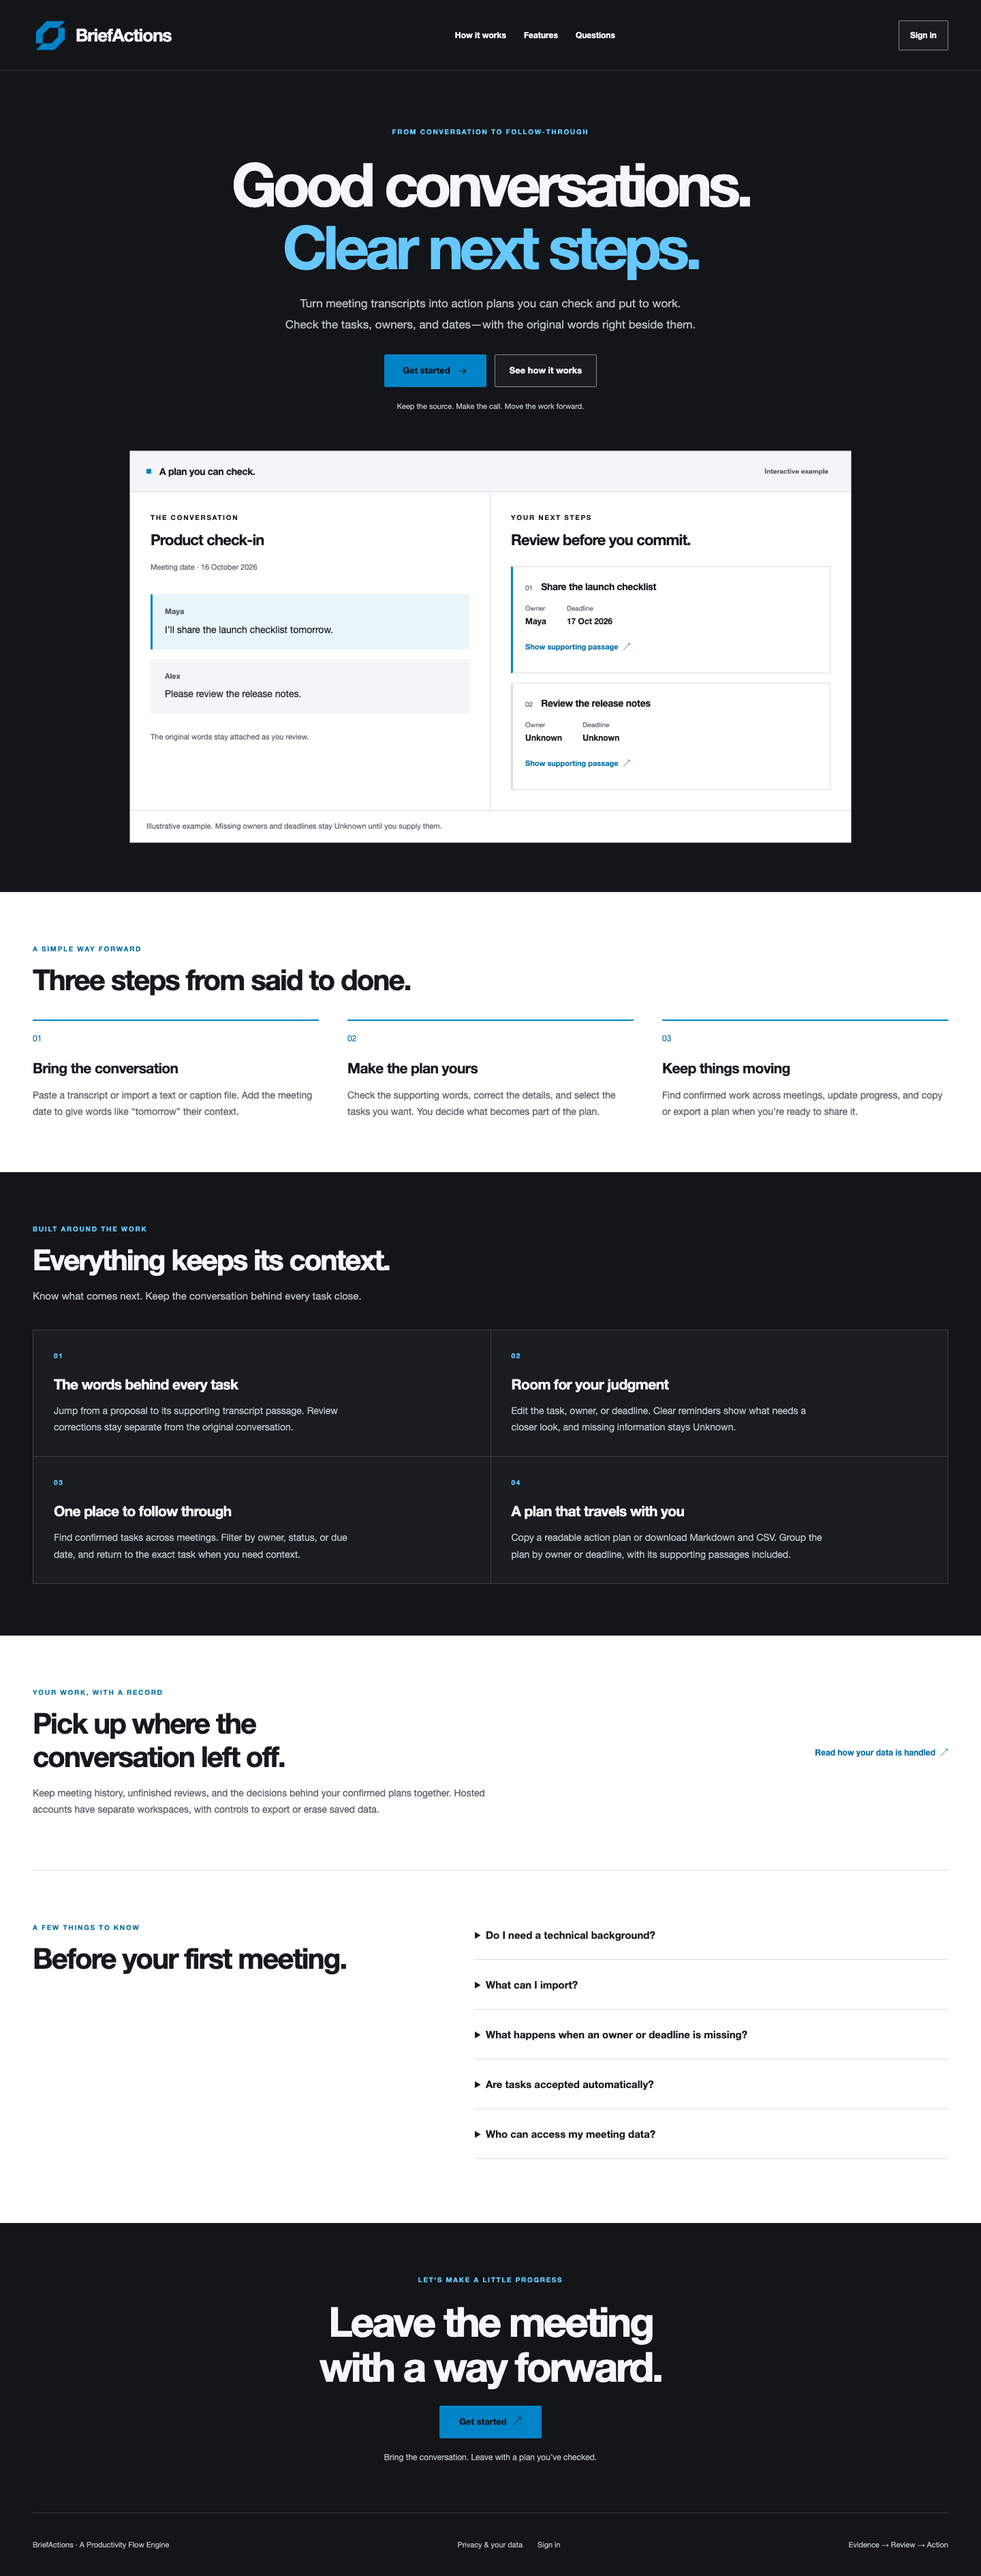
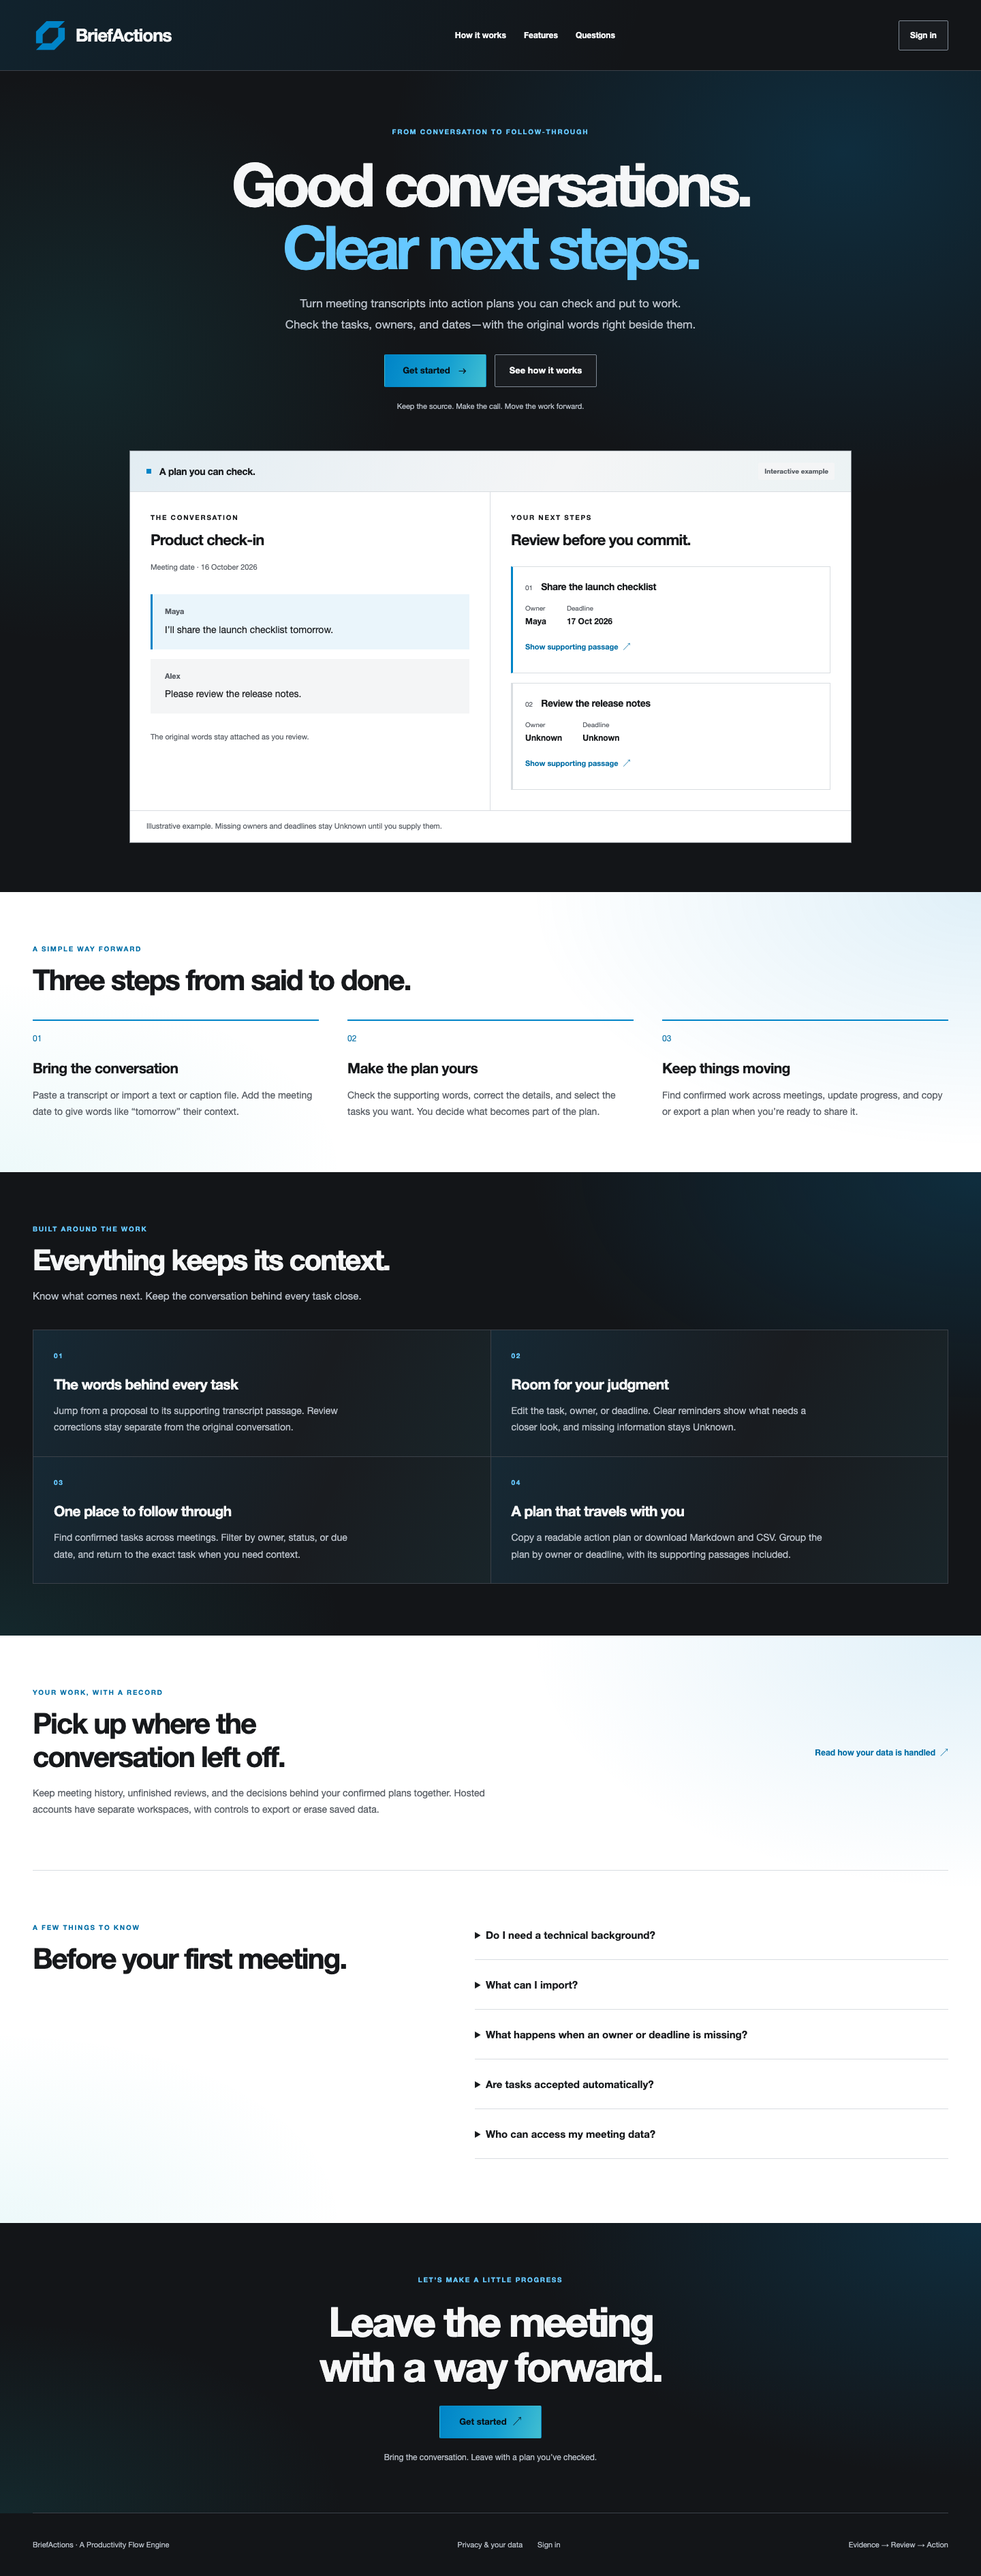
Add theme-aware blue and cyan gradients across BriefActions

diff --git a/web/src/styles.css b/web/src/styles.css
@@ -1,4 +1,4 @@
-/* Swiss / flat: neutral surfaces, precise rules, and one primary blue. */
+/* Precise grids, neutral reading surfaces, and blue-to-cyan gradient accents. */
 :root {
   font-family:Inter,'Helvetica Neue',Arial,sans-serif;
   font-synthesis:none; font-weight:400; line-height:1.5;
@@ -316,4 +316,42 @@ main.signin-shell{min-height:100vh;display:flex;flex-direction:column;background
 @media(max-width:1100px){.landing-header{flex-wrap:wrap;gap:12px 22px;padding-block:20px}.landing-header nav{order:3;width:100%;justify-content:center;border-top:1px solid var(--line);padding-top:8px}.landing-header-actions{margin-left:auto}.landing-data{display:block}.landing-data>.text-button{margin-top:20px}.landing-faq{gap:35px}}
 @media(max-width:700px){
  .landing-container{padding-inline:20px}.landing-header{gap:14px}.landing-header .brand-name{font-size:24px}.landing-header .brand-mark{width:40px;height:40px}.landing-header-actions{margin-left:auto}.landing-header nav{order:3;border:0;padding:0;gap:24px;justify-content:flex-start}.landing-header-actions{order:2}.landing-header nav a{min-height:36px;font-size:11px}.landing-header-actions .button{min-width:76px;padding-inline:12px}.landing-hero{padding:47px 0 35px}.landing-hero .eyebrow{font-size:9px;letter-spacing:1.2px}.landing-hero h1{font-size:clamp(37px,8.5vw,58px);letter-spacing:-.065em;margin:20px 0}.landing-lead{font-size:14px}.landing-hero-actions .button{min-width:0;flex:1;font-size:12px;padding-inline:12px}.landing-principles{font-size:10px}.landing-demo{margin-bottom:45px}.landing-demo-bar{padding:14px;flex-wrap:wrap;gap:8px}.landing-demo-bar h2{font-size:13px}.landing-demo-bar .badge{font-size:9px}.landing-demo-grid{grid-template-columns:minmax(0,1fr)}.landing-demo-source,.landing-demo-tasks{padding:23px 18px}.landing-demo-source{border-right:0;border-bottom:1px solid var(--line)}.landing-demo h3{font-size:21px}.demo-conversation{margin-top:20px}.demo-conversation p{font-size:13px;padding:12px}.demo-source-note{margin-top:17px}.demo-task dl{gap:25px}.demo-task{padding:15px}.landing-demo-caption{padding:13px 18px;font-size:10px}.landing-section{padding:40px 0}.landing-section-heading{margin-bottom:27px}.landing-section-heading h2,.landing-data h2{text-wrap:balance;font-size:31px}.landing-how ol{grid-template-columns:1fr;gap:27px}.landing-step-number{margin-bottom:14px;padding-top:12px}.landing-how h3,.landing-feature-grid h3{font-size:20px}.landing-feature-grid{grid-template-columns:1fr}.landing-feature-grid article{padding:25px 22px}.landing-feature-grid .eyebrow{margin-bottom:13px}.landing-faq{grid-template-columns:minmax(0,1fr);gap:0}.landing-faq details:last-child{margin-bottom:0}.landing-close{margin:0;padding:45px 0}.landing-close h2{font-size:38px}.landing-footer{align-items:flex-start;flex-direction:column;gap:4px;padding-bottom:25px}.landing-footer>span:last-child{margin-top:9px}main.signin-shell{padding:16px 20px}.signin-content{padding:38px 0}.signin-content>.brand .brand-mark{width:42px;height:42px}.signin-card{padding:27px 22px}.signin-card h1{font-size:30px}.signin-toolbar{gap:12px}.signin-toolbar .text-button{font-size:11px}.signin-caption{max-width:230px}
+}
+
+/* Shared atmosphere follows the workspace theme; public sections own their palette. */
+:root,.landing-light{
+ --glow-blue:rgb(0 132 199 / .12);--glow-cyan:rgb(27 177 191 / .08);
+ --wash-blue:rgb(0 132 199 / .07);--wash-cyan:rgb(27 177 191 / .04);
+ --surface-wash:linear-gradient(115deg,var(--wash-blue),transparent 60%,var(--wash-cyan));
+}
+:root[data-theme=dark],.landing-dark{
+ --glow-blue:rgb(0 132 199 / .22);--glow-cyan:rgb(27 177 191 / .12);
+ --wash-blue:rgb(0 132 199 / .12);--wash-cyan:rgb(27 177 191 / .06);
+ --surface-wash:linear-gradient(115deg,var(--wash-blue),transparent 60%,var(--wash-cyan));
+}
+.app-shell{
+ background-image:radial-gradient(ellipse 850px 420px at 100% 80px,var(--glow-blue),transparent 75%),radial-gradient(ellipse 600px 380px at 0 180px,var(--glow-cyan),transparent 75%);
+ background-repeat:no-repeat;background-size:100% 620px;
+}
+.workspace-header,.landing-header{background-image:linear-gradient(110deg,var(--wash-blue),transparent 65%)}
+.page-intro,.meeting-heading{position:relative}
+.page-intro::after,.meeting-heading::after{content:'';position:absolute;inset:auto 0 -10px;height:1px;background:linear-gradient(90deg,var(--primary),#36b6cb 35%,transparent 85%);pointer-events:none}
+.review-placeholder,.workflow-guide,.metric-card,.stat,.intro-note,.summary,.empty-state,.guide-example,.nav-item.active,.task-view[aria-pressed=true]{background-image:var(--surface-wash)}
+.button.primary{background-image:linear-gradient(110deg,#0084c7,#149fd1 58%,#42bfd2)}
+.button.primary:hover:not(:disabled){background-image:linear-gradient(110deg,#1093d0,#20acd7 58%,#60cbd9)}
+.landing-stage{
+ background-image:radial-gradient(ellipse 900px 680px at 86% 10%,var(--glow-blue),transparent 74%),radial-gradient(ellipse 650px 560px at 8% 35%,var(--glow-cyan),transparent 75%);
+}
+.landing-band{
+ background-image:radial-gradient(ellipse 850px 480px at 100% 0,var(--glow-blue),transparent 78%),radial-gradient(ellipse 650px 360px at 0 100%,var(--glow-cyan),transparent 78%);
+}
+.landing-feature-grid article,.landing-demo-bar{background-image:var(--surface-wash)}
+main.signin-shell{
+ background-image:radial-gradient(ellipse 900px 640px at 95% 0,var(--glow-blue),transparent 76%),radial-gradient(ellipse 850px 680px at 0 100%,var(--glow-cyan),transparent 76%);
+}
+.signin-card{position:relative}
+.signin-card::before{content:'';position:absolute;inset:-3px -1px auto;height:3px;background:linear-gradient(90deg,#0084c7,#42bfd2);pointer-events:none}
+@media(forced-colors:active){
+ .app-shell,.workspace-header,.landing-header,.landing-stage,.landing-band,main.signin-shell,.landing-feature-grid article,.landing-demo-bar,.review-placeholder,.workflow-guide,.metric-card,.stat,.intro-note,.summary,.empty-state,.guide-example,.nav-item.active,.task-view[aria-pressed=true],.button.primary,.button.primary:hover:not(:disabled){background-image:none}
+ .page-intro::after,.meeting-heading::after,.signin-card::before{display:none}
 }

diff --git a/web/src/LandingPage.jsx b/web/src/LandingPage.jsx
@@ -11,7 +11,7 @@ export default function LandingPage({signedIn=false}){
  const href=signedIn?'/meetings':'/sign-in',action=signedIn?'Open workspace':'Get started';
  return <div className="landing-shell landing-light"><a className="skip-link" href="#home-title">Skip to content</a>
   <div className="landing-intro landing-dark"><header className="landing-header landing-container"><ProductBrand/><nav aria-label="Website navigation"><a href="#how">How it works</a><a href="#features">Features</a><a href="#questions">Questions</a></nav><div className="landing-header-actions"><a className="button secondary" href={href}>{signedIn?'Open workspace':'Sign in'}</a></div></header></div>
-  <main id="home-main"><div className="landing-intro landing-dark"><div className="landing-container">
+  <main id="home-main"><div className="landing-intro landing-dark landing-stage"><div className="landing-container">
    <section className="landing-hero" aria-labelledby="home-title"><p className="eyebrow accent">FROM CONVERSATION TO FOLLOW-THROUGH</p><h1 id="home-title" tabIndex={-1}>Good conversations.<br/><span>Clear next steps.</span></h1><p className="landing-lead">Turn meeting transcripts into action plans you can check and put to work. Check the tasks, owners, and dates—with the original words right beside them.</p><div className="landing-hero-actions"><a className="button primary" href={href}>{action}<svg width="17" height="17" viewBox="0 0 24 24" fill="none" stroke="currentColor" strokeWidth="1.7" aria-hidden="true"><path d="M5 12h14m-5-5 5 5-5 5"/></svg></a><a className="button secondary" href="#how">See how it works</a></div><p className="landing-principles">Keep the source. Make the call. Move the work forward.</p></section>
    <section className="landing-demo landing-light" aria-labelledby="demo-title"><div className="landing-demo-bar"><div><span className="demo-dot" aria-hidden="true"/><h2 id="demo-title">A plan you can check.</h2></div><span className="badge neutral">Interactive example</span></div><div className="landing-demo-grid"><div className="landing-demo-source"><div className="eyebrow">THE CONVERSATION</div><h3>Product check-in</h3><p className="form-hint">Meeting date · 16 October 2026</p><div className="demo-conversation">{examples.map(item=><p key={item.id} className={active===item.id?'demo-source-active':''}><strong>{item.speaker}</strong><span>{item.quote}</span></p>)}</div><p className="demo-source-note">The original words stay attached as you review.</p></div><div className="landing-demo-tasks"><div className="eyebrow">YOUR NEXT STEPS</div><h3>Review before you commit.</h3><div className="demo-task-list">{examples.map((item,index)=><article className={`demo-task ${active===item.id?'demo-task-active':''}`} key={item.id}><div className="demo-task-title"><span aria-hidden="true">0{index+1}</span><h4>{item.task}</h4></div><dl><div><dt>Owner</dt><dd>{item.owner}</dd></div><div><dt>Deadline</dt><dd>{item.deadline}</dd></div></dl><button type="button" className="text-button" aria-pressed={active===item.id} onClick={()=>setActive(item.id)}>Show supporting passage<span className="sr-only"> for {item.task}</span><span aria-hidden="true">↗</span></button></article>)}</div><p className="sr-only" role="status">Showing the supporting passage for {examples.find(item=>item.id===active).task}.</p></div></div><p className="landing-demo-caption">Illustrative example. Missing owners and deadlines stay Unknown until you supply them.</p></section>
   </div></div><div className="landing-light landing-band"><div className="landing-container">

diff --git a/README.md b/README.md
@@ -179,6 +179,10 @@ The public homepage combines a dark introduction and feature sections with a lig
 product preview, workflow, and FAQ. Its design stays consistent across device
 appearance settings. Sign-in and the workspace offer Light, Dark, and System
 themes, with a persistent preference; visiting the homepage preserves that choice.
+Blue-to-cyan gradients add soft color to the landing sections, sign-in background,
+workspace headers, summary cards, walkthroughs, and primary buttons. Transcript
+text, task inputs, evidence, tables, and account controls keep solid reading
+surfaces. Decorative gradients fall back to solid colors in forced-color modes.
 The public deployment uses Supabase sign-in and persistent Postgres storage with
 account isolation. Browser drafts are scoped per account, and CSV/JSON exports
 are authenticated. Local development continues to use SQLite on loopback.
